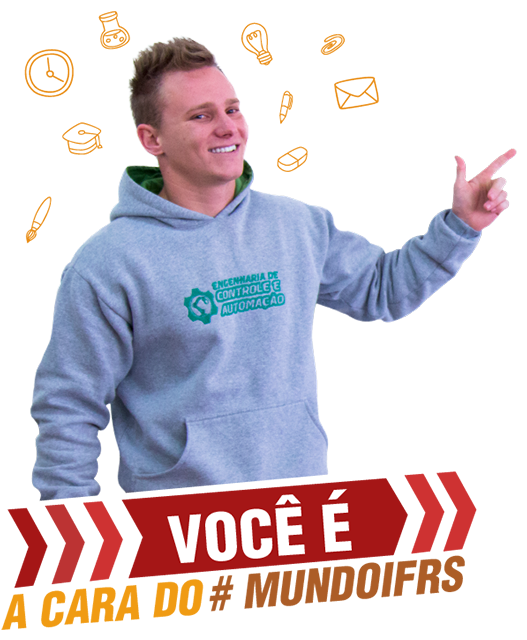
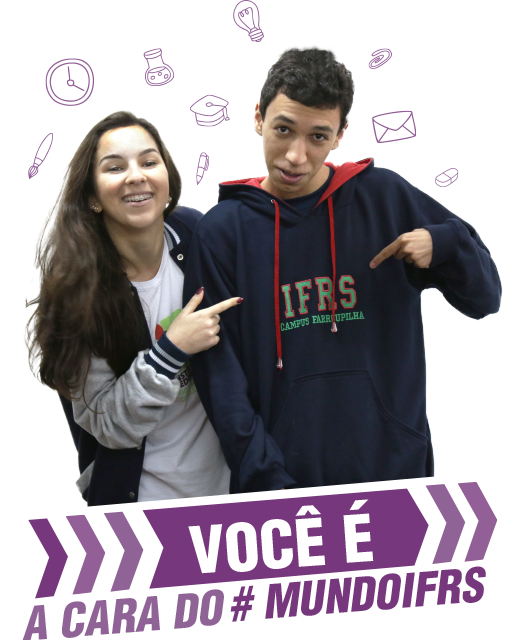
Novas imagens para o PS 2019/2 e ajustes necessários

diff --git a/sass/_home-cursos.scss b/sass/_home-cursos.scss
@@ -17,31 +17,24 @@
         z-index: 5;
     }
 
-    &__guria1 {
+    &__aluno1 {
         position: absolute;
-        left: 105px;
-        top: 200px;
+        left: 195px;
+        top: 275px;
         z-index: 3;
     }
 
-    &__guria2 {
+    &__aluno2 {
         position: absolute;
         left: 410px;
-        top: 180px;
+        top: 140px;
         z-index: 4;
     }
 
-    &__guria3 {
+    &__aluno3 {
         position: absolute;
-        left: 540px;
-        top: 125px;
-        z-index: 2;
-    }
-
-    &__guria4 {
-        position: absolute;
-        left: 870px;
-        top: 190px;
+        left: 680px;
+        top: 90px;
         z-index: 1;
     }
 

diff --git a/front-page.php b/front-page.php
@@ -83,10 +83,9 @@
         <div class="row">
             <div class="col-12">
                 <img class="home-cursos__title" src="<?php echo get_stylesheet_directory_uri(); ?>/img/cursos-title.png" alt="">
-                <img class="home-cursos__guria1 rellax" src="<?php echo get_stylesheet_directory_uri(); ?>/img/guria1.png" alt="" data-rellax-speed="2">
-                <img class="home-cursos__guria2 rellax d-none d-sm-block" src="<?php echo get_stylesheet_directory_uri(); ?>/img/guria2.png" alt="" data-rellax-speed="3">
-                <img class="home-cursos__guria3 rellax d-none d-lg-block" src="<?php echo get_stylesheet_directory_uri(); ?>/img/guria3.png" alt="" data-rellax-speed="2">
-                <img class="home-cursos__guria4 rellax d-none d-xl-block" src="<?php echo get_stylesheet_directory_uri(); ?>/img/guria4.png" alt="" data-rellax-speed="1">
+                <img class="home-cursos__aluno1 rellax" src="<?php echo get_stylesheet_directory_uri(); ?>/img/aluno1.png" alt="" data-rellax-speed="2">
+                <img class="home-cursos__aluno2 rellax d-none d-sm-block" src="<?php echo get_stylesheet_directory_uri(); ?>/img/aluno2.png" alt="" data-rellax-speed="3">
+                <img class="home-cursos__aluno3 rellax d-none d-lg-block" src="<?php echo get_stylesheet_directory_uri(); ?>/img/aluno3.png" alt="" data-rellax-speed="2">
                 <a href="<?php echo get_post_type_archive_link( 'curso' ); ?>"><img class="home-cursos__link" src="<?php echo get_stylesheet_directory_uri(); ?>/img/cursos-link.png" alt="Conheça todos os Cursos"></a>
             </div>
         </div>

diff --git a/header.php b/header.php
@@ -32,7 +32,7 @@
                 <div class="row">
                     <div class="col-12">
                         <a href="<?php echo esc_url( home_url( '/' ) ); ?>" class="header-banner__link">
-                            <img src="<?php echo get_stylesheet_directory_uri(); ?>/img/header-foto<?php echo mt_rand(1, 3); ?>.png" alt="" class="img-fluid header-banner__foto" aria-hidden="true"/>
+                            <img src="<?php echo get_stylesheet_directory_uri(); ?>/img/header-foto<?php echo mt_rand(1, 2); ?>.png" alt="" class="img-fluid header-banner__foto" aria-hidden="true"/>
                             <img src="<?php header_image(); ?>" alt="" class="img-fluid header-banner__ps" aria-hidden="true"/>
                             <img src="<?php echo get_stylesheet_directory_uri(); ?>/img/header-selo.png" alt="" class="img-fluid header-banner__selo"/>
                             <span class="sr-only">Ir para P&aacute;gina Inicial</span>
